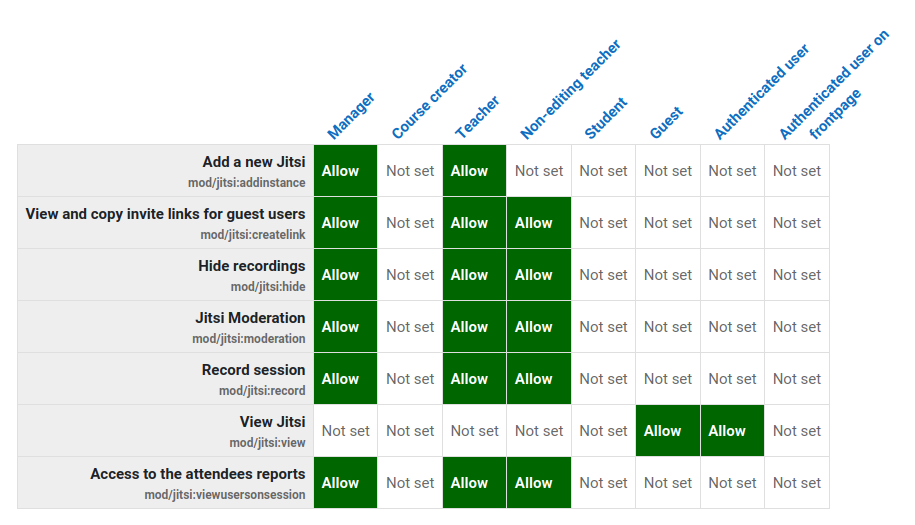
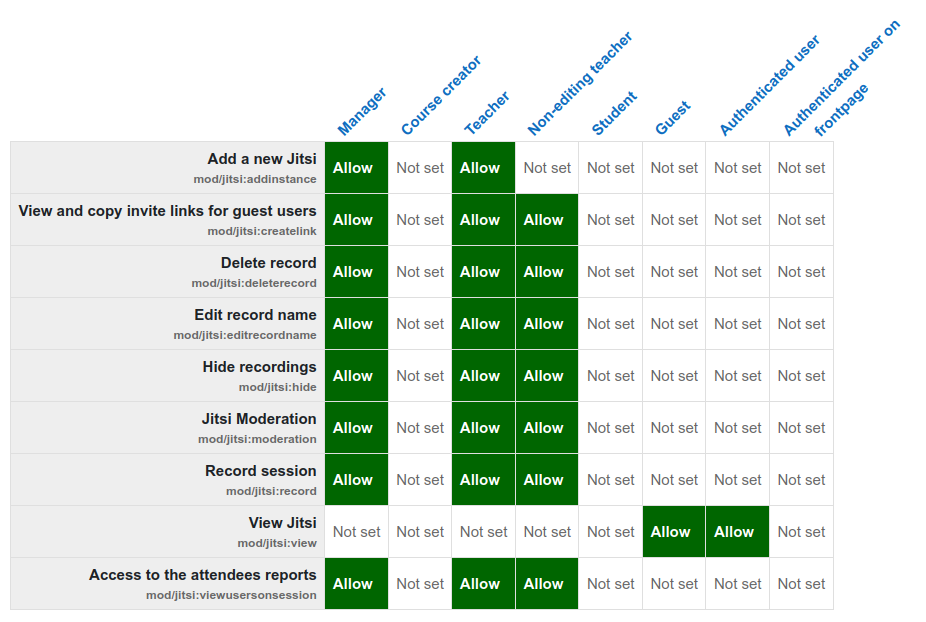
Updating README.md and other docs

Changed region(s): [[0.0, 0.0305, 0.9792, 1.0], [0.7344, 0.1524, 0.765, 0.1829]]

diff --git a/lang/en/jitsi.php b/lang/en/jitsi.php
@@ -192,8 +192,10 @@ $string['confirmdeleterecordinactivity'] = 'Confirm you want to delete this reco
 $string['errordeleting'] = 'Error deleting';
 $string['minpretime_help'] = 'Users with moderation permissions will be able to access these minutes before the start';
 $string['domain'] = 'Domain';
-$string['domainex'] = 'Domain Jitsi Server to use. Default server (meet.jit.si) have a time limit of 5 minutes. You can search in Google for alternative public Jitsi servers that could be nearest to your users and with less latency.
- If you have your private own Jitsi Server inform it here without "https://".';
+$string['domainex'] = 'Domain Jitsi Server to use. Default server (<b>meet.jit.si</b>) have a time limit of 5 minutes per conference. 
+ You can search in Google for alternative public Jitsi servers that could be nearest to your users and with less latency.
+ If you have your private own Jitsi Server inform it here without "https://". 
+ The 8x8 professional server uses to be (<b>8x8.vc</b>) and requires to config your credentials in the bellow "Token Configuration" section.';
 $string['sessionisbeingrecorded'] = 'Session is being recorded';
 $string['recordtitle'] = 'Record';
 $string['preparing'] = 'Preparing. Please wait...';
@@ -202,7 +204,9 @@ $string['validitytimevalidation'] = 'The invitation cannot expire before the ses
 $string['privatekey'] = 'Private key';
 $string['tokennconfig8x8'] = '8x8 Servers configuration';
 $string['tokenconfiguration8x8ex'] = 'If you use 8x8 servers you need to configure the following parameters.';
-$string['privatekeyex'] = 'Private key to sign the token with 8x8 server. You can get it from the 8x8 server administration. (https://jaas.8x8.com/). Download the private key file and copy the content here.';
+$string['privatekeyex'] = 'Private key to sign the token with 8x8 server. You can get it from the 8x8 server administration. (https://jaas.8x8.com/). 
+Download the private key file and copy the content here.
+</br><b>IMPORTANT</b>: remember to update the "Domain" setting to something like <b>8x8.vc</b>';
 $string['apikeyid8x8'] = 'Api Key ID';
 $string['apikeyid8x8ex'] = 'Api Key ID to use with 8x8 server. You can get it from the 8x8 server administration. (https://jaas.8x8.com/)';
 $string['nojitsis'] = 'No Jitsi activities found';
@@ -218,11 +222,11 @@ $string['staticinvitationlinkexview'] = 'Share this link for users who are not e
 $string['jitsi:deleterecord'] = 'Delete record';
 $string['jitsi:editrecordname'] = 'Edit record name';
 $string['whiteboard'] = 'Whiteboard';
-$string['whiteboardex'] = 'Show the whiteboard button to all users.';
+$string['whiteboardex'] = 'Show the whiteboard button to all users. Actually Whiteboard is not available on Jaas Servers.';
 $string['streamingisstarting'] = 'Streaming is starting. Please wait...';
 $string['sessionisbeingrecordingby'] = 'Session is being recorded by {$a}';
 $string['recordingbloquedby'] = 'The recording is blocked by ';
-$string['livesessionsnow'] = 'Live sessions now';
+$string['livesessionsnow'] = 'Recordings on air';
 $string['norecords'] = 'No recordings available';
 $string['crontaskdelete'] = 'Delete recordings';
 $string['numbervideosdeleted'] = 'Number of videos to delete';
@@ -233,6 +237,15 @@ $string['recordsonair'] = 'Recordings on air';
 $string['error'] = 'Error';
 $string['recordingwasbloquedby'] = 'The user who started this recording is no longer participating in the session. Do you want to stop this recording? It was started by ';
 $string['news'] = 'News';
-$string['news1'] = 'lorem ipsum dolor sit amet, consectetur adipiscing elit, sed do eiusmod tempor incididunt ut labore et dolore magna aliqua.';
+$string['news1'] = '<div class="alert alert-info" role="alert"><center>If you have recently upgraded,
+ it is recommended that you check the <a href="../mod/jitsi/CHANGES.md">CHANGES.md</a> for updates and set your language to English to be sure you read updated instructions on this configuration screen.
+ </br></br><b>IMPORTANT NOTICE</b>
+ </br>Recently the meet.jit.si public servers have implemented restrictions for the embed mode that limit to 5 minutes per conference 
+ (<a href="https://github.com/udima-university/moodle-mod_jitsi#important-announcement-from-meetjitsi-team">read more here</a>).
+ </br>If you want to hire professional hosting services for Jitsi, we recommend <a href="https://jaas.8x8.vc/">https://jaas.8x8.vc/</a>.
+ It is run by the Jitsi developers, they have <b>very competitive prices</b> and this way you help to keep alive the Jitsi Open Source Project. 
+ You can <b>enjoy an 80% discount</b> on the first 3 months <b>using the coupon MOODLE23</b> when you sign up for your account.
+ </br></br><b>DISCLAIMER</b></br>This plugin is maintained by UDIMA University (<a href="https://www.udima.es">www.udima.es</a>) and is not related or partner 
+ with 8x8 Inc nor with "Jitsi as a service" (jaas).</center></div>';
 $string['config'] = 'Configuration';
 $string['deleterecord'] = 'Delete record';

diff --git a/README.md b/README.md
@@ -3,7 +3,7 @@ This plugin (**mod_jitsi**) allows teachers **create webconference activities** 
 
 **Jitsi Meet** is an open-source videoconferencing solution that enables you to easily build and implement secure video conferencing. If you don't know about Jitsi Meet you can try it at https://meet.jit.si/. Many commercial web conference services are deployed using Jitsi Meet because it is extremely scalable. More information about Jitsi can be found at https://jitsi.org/
 
-**Out of the box the plugin works** using the public Jitsi Meet Servers (meet.jit.si). **It's a free ** and that's the best way to test if this plugin satisfies you. Most of the features in this plugin are available using the public server.
+**Out of the box the plugin works** using the public Jitsi Meet Servers (meet.jit.si). **It's free** and that's the best way to test if this plugin satisfies you. Most of the features in this plugin are available using the public server but probably you'll be restricted to 5 minutes per conference (read more below).
 
 Stop reading here... try the plugin now in your test Moodle environment and return later to continue reading.
 
@@ -26,7 +26,7 @@ Glad to see you here again. These are some of the Jitsi features inside Moodle y
 * Virtual Backgrounds
 * YouTube video sharing... pause, rewind and comment videos with all your students (cool)
 * Full moderation control in order to silence or kickoff students (token based mode recomended... see below)
-* YouTube streaming and **automatic recordings publishing** in your course  (really cool)
+* YouTube streaming and **automatic recordings publishing** in your course...  really cool (requires the streaming configuration... see below)
 * and others...
 
 ## Permissions
@@ -39,6 +39,8 @@ Most of them are available at the activity level so a teachers can override some
 
 - **Add a new Jitsi** (mod/jitsi:addinstance): allow to create Jitsi activities.
 - **View and copy invite links for guest users** (mod/jitsi:createlink): a teacher could allow students to share the invitation links for guest users.
+- **Delete record** (mod/jitsi:deleterecord): allow to mark a recording as deleted. The recording will be set as private in YouTube.  Recordings marked as deleted will be deleted in YouTube with the scheduled task (\mod_jitsi\task\cron_task_delete) or by the admin from a list. You may want to prevent non-editing teachers from deleting recordings.
+- **Edit record name** (mod/jitsi:editrecordname): allow to rename the title in a recording. You may want to prevent non-editing teachers from renaming recordings.
 - **Hide recordings** (mod/jitsi:hide): allow to hide recordings. You may want to prevent non-editing teachers from hiding recordings.
 - **Jitsi Moderation** (mod/jitsi:moderation): determine who is moderator in sessions. When "Token configuration" is set only users with this rol are promoted as Jitsi moderators and this icon ![image-20220309175303324](doc/pix/moderator_icon.png)is displayed with these users. When "Token configuration" is missing some buttons and features like "mute-everyone" or "kick off participant" are hidden to non moderator user but you must be careful because we are not able to hide all moderation options in scenarios without token configuration and experienced users may be able to bypass these restrictions.
 - **Record session** (mod/jitsi:record): allow to start recordings. You could create Jitsi Sessions where students could record themselves.
@@ -59,7 +61,7 @@ Recordings will remain on "unlisted" mode in the YouTube accounts so nobody will
 
 ![recordings](doc/pix/recordings.png)
 
-Teachers can hide or deleted the recordings in the Jitsi activities but only administrators can order to completely delete the recording in YouTube. This is because backup and restore tasks with user data could cause a recording to be available in different courses (or different Moodle environments).
+Teachers can hide or deleted the recordings in the Jitsi activities but only administrators can order to completely delete the recording in YouTube. This is because backup and restore tasks with user data could cause a recording to be available in different courses (or different Moodle environments). Now an scheduled task is configured by default in order to  remove recordings in YouTube. You can set the retention period for this automatic deletion task.
 
 All the magic works using **YouTube v3 APIs** in order to:
 
@@ -106,7 +108,7 @@ If you decide to deploy this plugin in production you may would like to install 
 
 Jitsi Meet deployment servers can be complex and is beyond the scope of this article but you can review our ansible playbook ([ansible-jitsi-meet](https://github.com/udima-university/ansible-jitsi-meet)).
 
-Alternatively you could explore on buying Jitsi Meet as a service with some provider (ie: https://jaas.8x8.vc).
+Alternatively you could explore on buying Jitsi Meet as a service with some provider (ie: https://jaas.8x8.vc) with an important discount for Moodle users (read more below).
 
 Many Governmental Education Institutions deploy their own Jitsi servers to be used by their schools or universities... you could ask them if they provide Jitsi token credentials for this configuration.
 
@@ -114,6 +116,23 @@ Basically the token configuration send your teachers (or roles with the mod/jits
 
 ## Recommendations when using public Jitsi servers
 
-As we said "out of the box", the plugin connects with the public servers at meet.jit.si but there many other public Jitsi Meet servers... just make some search with Google.  If your institution haven't enough resources to deploy their own Jitsi servers it's OK to use public servers and meet.jit.si is a very robust server but you should test other servers in order to be able change in case of a disruption service or maybe because you find a public server nearest to your users and with less latency.
+As we said "out of the box", the plugin connects with the public servers at meet.jit.si but there many other public Jitsi Meet servers... just make some search with Google or look at the [Community-run instances list](https://jitsi.github.io/handbook/docs/community/community-instances/).  You should test other servers in order to be able change in case of a disruption service or maybe because you find a public server nearest to your users and with less latency.
 
-With our default configuration in NO token mode, students can mute or kickoff participants (including teachers), using the "Panel participants" but this is notified to all the participants so students could be punished. If that's not a problem for you we recommend the default settings, but if that disturbs you, you could disable the "Participants panel" and the "Raise hand button" in the plugin configuration loosing those features for your students. We like think students are good... so we recommend to start without restrictions. You must decide.
+## Important announcement from meet.jit.si team
+
+The **meet.jit.si** team recently announced that the embed mode, required by our plugin, **is now restricted and they only allow to use it for 5 minutes on every conference**, but this is enough in order to test if this fits to you. You can [read about this announcement here](https://community.jitsi.org/t/important-embedding-meet-jit-si-in-your-web-app-will-no-longer-be-supported-please-use-jaas/). We would like to thank them for providing such a good service for so many years without restrictions, which helped many schools to continue their activities during the Covid pandemic.
+
+ **Jitsi is Open Source** and you can **install your own Jitsi Server** or to **rent the service from https://jaas.8x8.vc/** with an **important discount for you**. Probably you could find other unofficial sites providing professional hosting for Jitsi, but 8x8 is the company which supports the Jitsi project and buying their services is the best way to support the project in order to guarantee it's future.
+
+## Discount from 8x8 on Jitsi as a Service (jaas)
+
+If you decide to rent Jitsi as service from https://jaas.8x8.vc/ you can use the coupon **MOODLE23** in order to get an **80% discount for three months on the three JaaS packages**. This means,  for your first three months, you can have up to 300 users for $20/month, 1500 users for $100/month and 3000 users for $200/month.
+
+## Disclaimer
+
+This plugin is maintained by UDIMA University (www.udima.es) and is not related or partner with 8x8 Inc nor with "Jitsi as a service" (jaas).
+
+
+
+
+

diff --git a/CHANGES.md b/CHANGES.md
@@ -3,7 +3,9 @@
 ### Added
 * Add page with live recordings for administrators
 * Recordings are locked by the user who started them. Preventing others from stopping them.
-* Cron task delete is created to delete the recordings that are marked as deleted.
+* IMPORTANT: new Scheduled tasks is enabled by default in order to delete recordings that are marked
+  as deleted by teachers and new setting are included to set the retention period. Disable this task
+  if you prefer to manually delete YouTube recordings.
 * New section on settings for news and updates information.
 
 ### Fixed
@@ -11,11 +13,9 @@
 * Fixed error with return create_stream function 
 
 ### Changed
-* Pagination for table recordings to delete
+* Pagination for the "Recordings available to delete" list.
 * New view with tabs for recordings, help and participanting resume
 * Recordings that don't have a link to the recording are not displayed on the jitsi page
 * Google api 2.13.1 version
 * Access buton now is primary button
 * new getclientgoogleapi function to get the google api client
-* 
-
